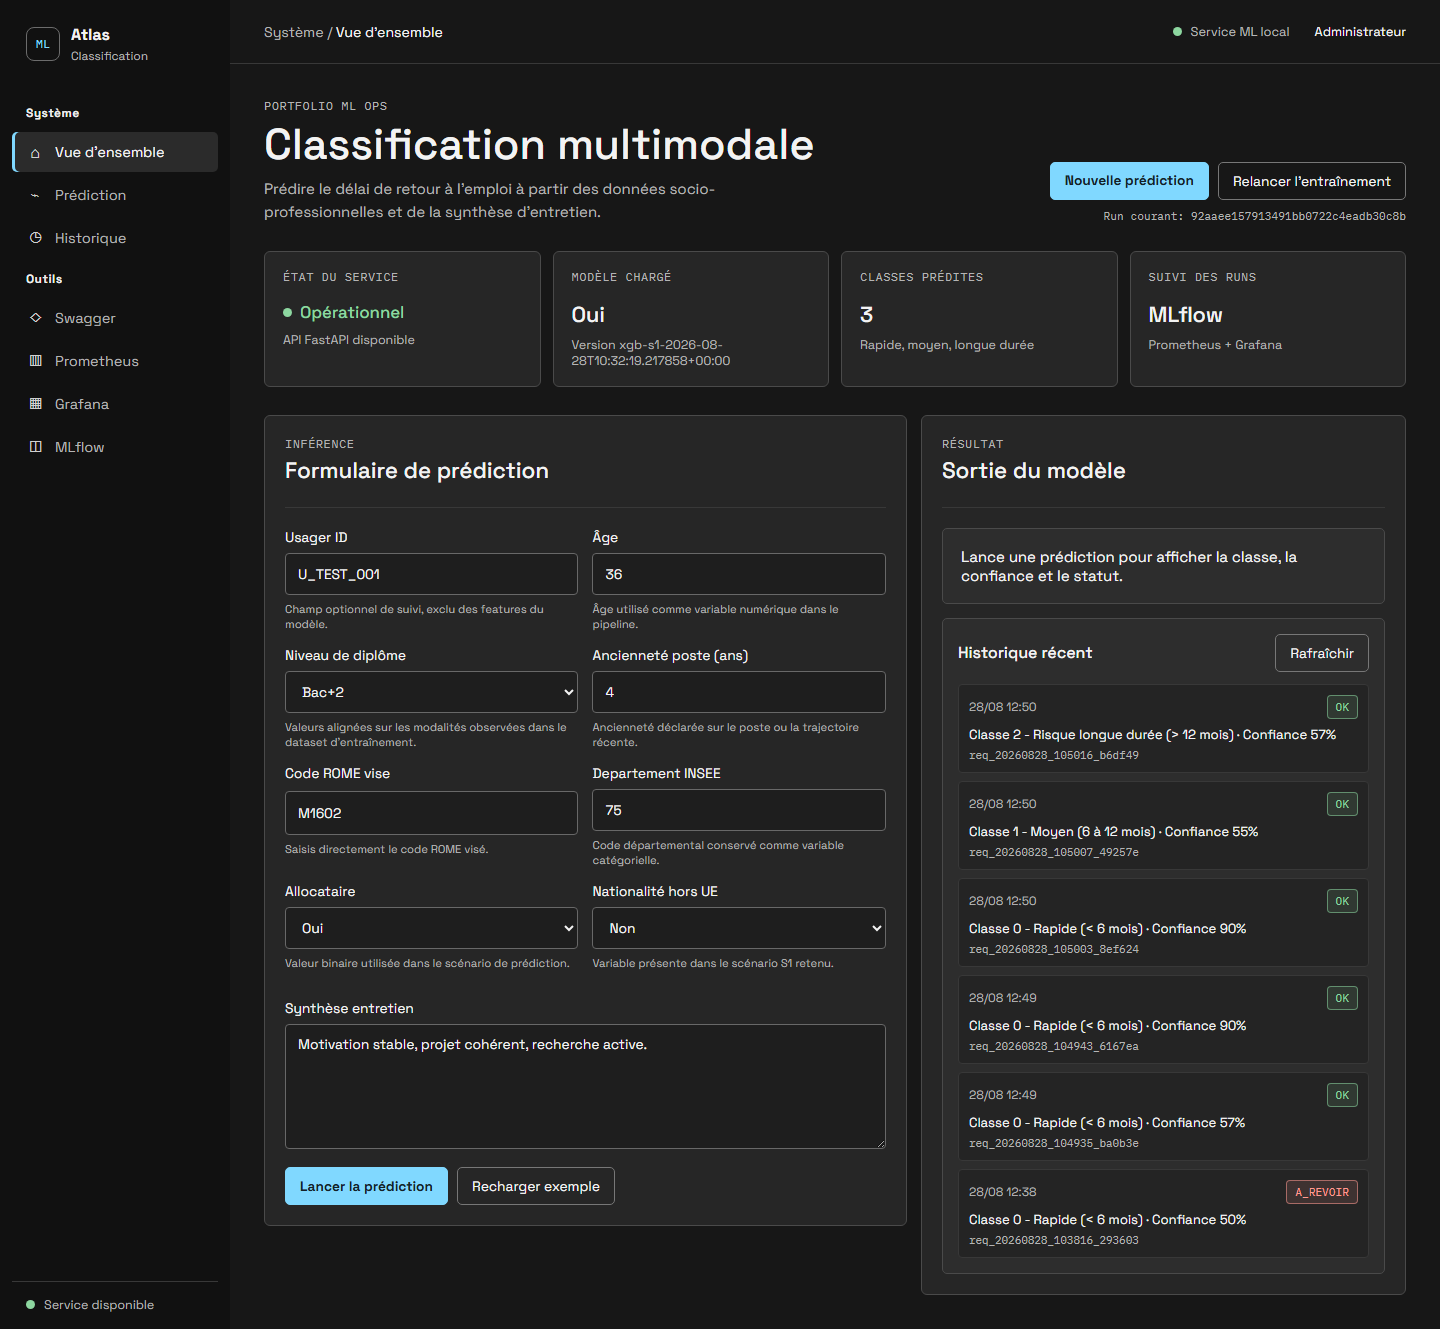
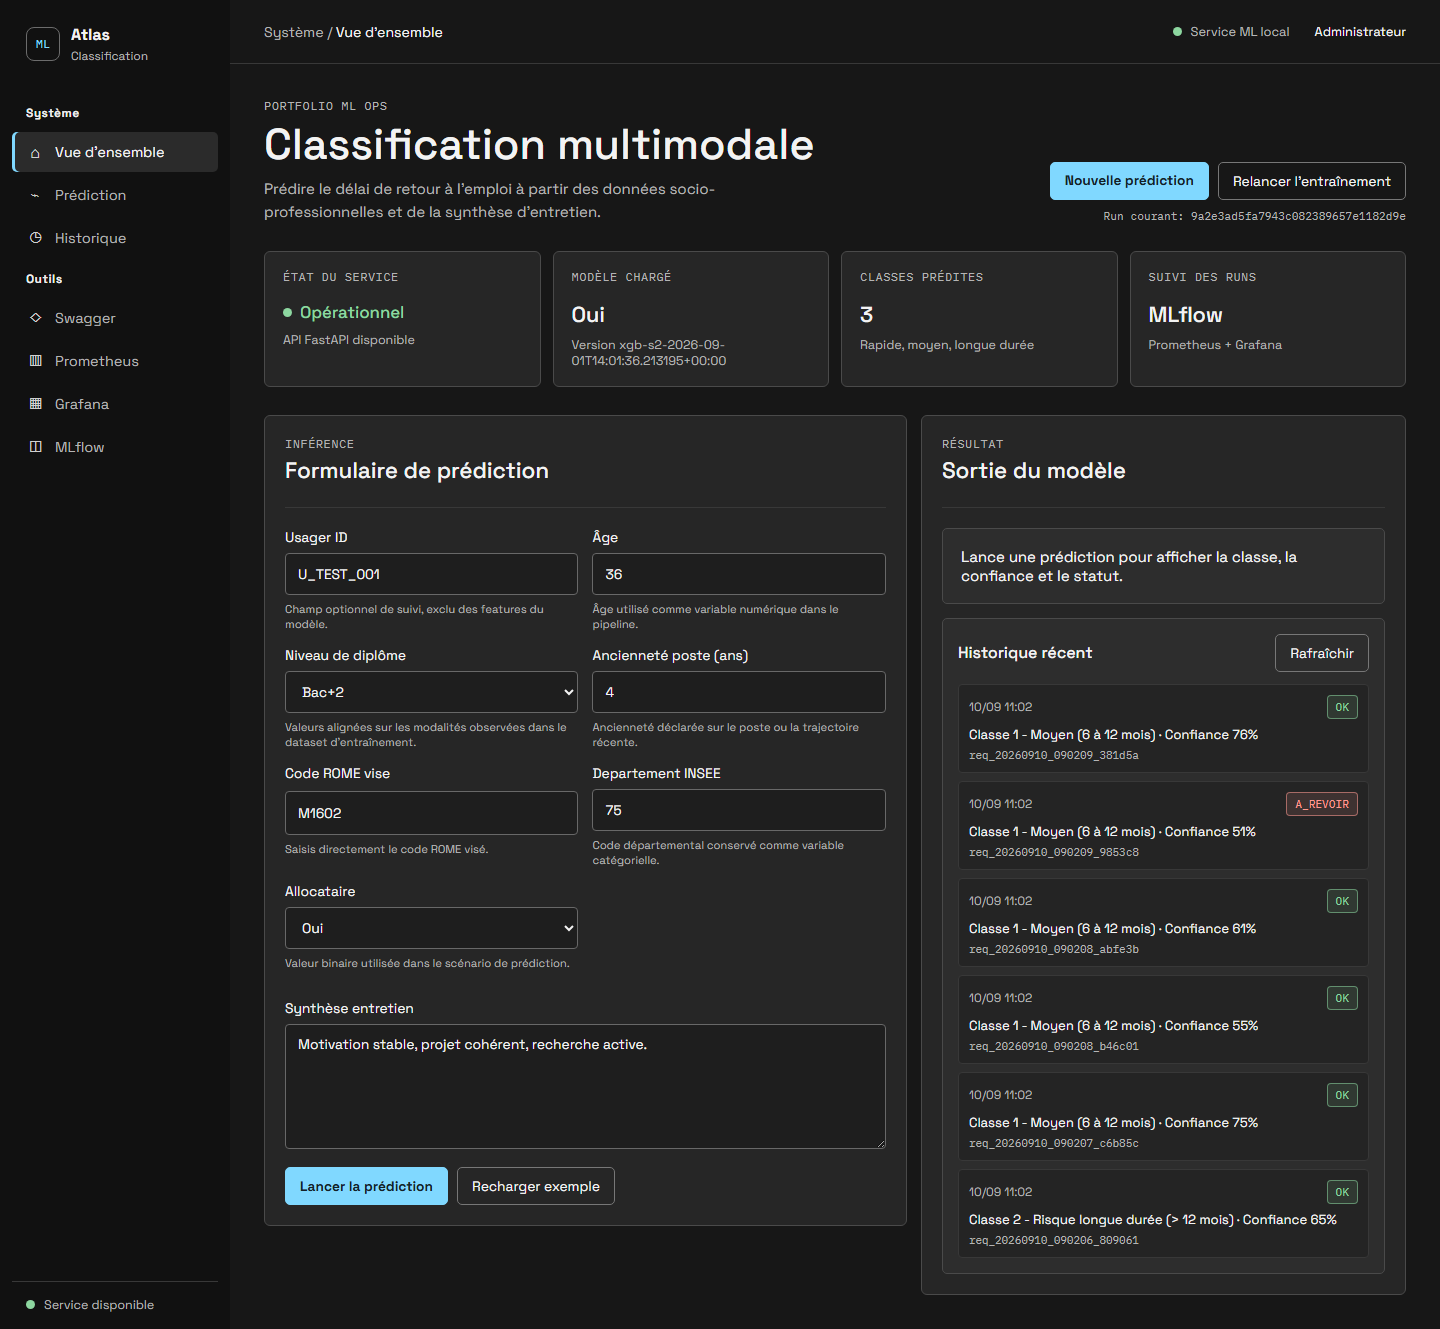
docs(readme): mettre a jour les captures du dashboard Grafana
Le dashboard est illustre par deux captures (service et reponses du modele, distribution des scores et exploitation) a la place de l'ancienne vue unique.

diff --git a/README.md b/README.md
@@ -209,8 +209,11 @@ Répertoire UI: [app/ui](app/ui)
 ### Monitoring - Prometheus targets
 ![Prometheus Targets](reports/figures/prometheus-targets.png)
 
-### Monitoring - Grafana Dashboard
-![Grafana Dashboard](reports/figures/grafana-dashboard.png)
+### Monitoring - Grafana : service, qualité du modèle et réponses
+![Grafana Dashboard - service et réponses du modèle](reports/figures/grafana-dashboard-1.png)
+
+### Monitoring - Grafana : distribution des scores et exploitation
+![Grafana Dashboard - distribution des scores et exploitation](reports/figures/grafana-dashboard-2.png)
 
 ## Structure Du Dépôt
 
